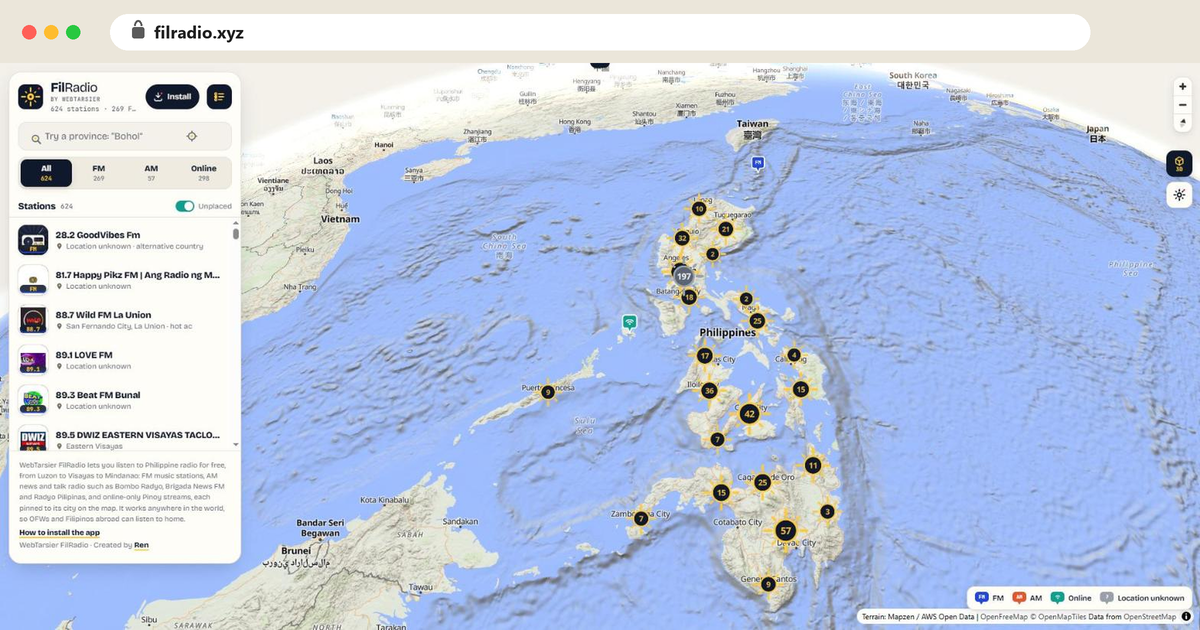
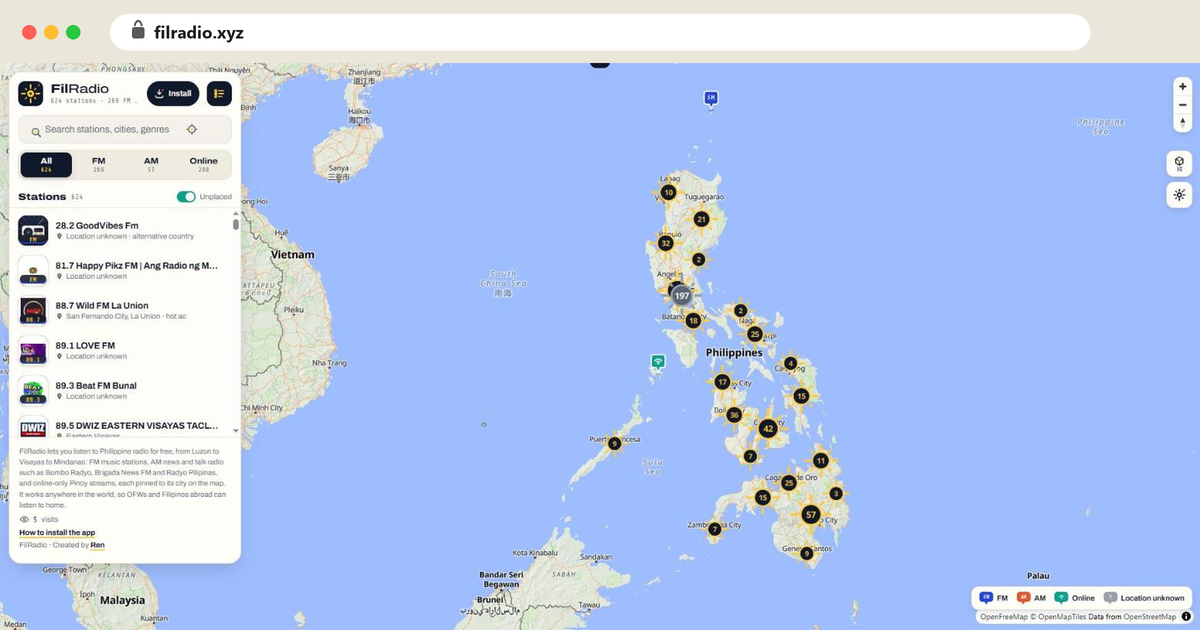
Switch to Archivo + Share Tech Mono and drop WebTarsier branding
- Fonts: Archivo (expanded for headings, like a vintage radio badge)
  and Share Tech Mono for frequency/LCD readouts; canvas pins updated
- Removed "WebTarsier" from title, meta, Open Graph, JSON-LD, header,
  footer, manifest, sitemap and README; publisher is now Ren
- Re-captured og-image and desktop screenshot with the new look

diff --git a/index.html b/index.html
@@ -5,9 +5,9 @@
   <meta name="viewport" content="width=device-width, initial-scale=1, viewport-fit=cover" />
 
   <!-- SEO -->
-  <title>WebTarsier FilRadio — Listen to Philippine FM &amp; AM Radio Live, Anywhere</title>
-  <meta name="description" content="WebTarsier FilRadio: stream 600+ Philippine radio stations free, live on a 3D map. FM, AM and online stations from Manila, Cebu, Davao, Iloilo and more. Made for Filipinos at home and OFWs abroad." />
-  <meta name="keywords" content="WebTarsier FilRadio, FilRadio, Philippine radio, Pinoy radio online, OFW radio, Filipino radio abroad, FM radio Philippines, AM radio Philippines, live radio streaming, Manila radio, Cebu radio, Davao radio, Bombo Radyo, Brigada News FM, radio map" />
+  <title>FilRadio — Listen to Philippine FM &amp; AM Radio Live, Anywhere</title>
+  <meta name="description" content="FilRadio: stream 600+ Philippine radio stations free, live on a 3D map. FM, AM and online stations from Manila, Cebu, Davao, Iloilo and more. Made for Filipinos at home and OFWs abroad." />
+  <meta name="keywords" content="FilRadio, Philippine radio, Pinoy radio online, OFW radio, Filipino radio abroad, FM radio Philippines, AM radio Philippines, live radio streaming, Manila radio, Cebu radio, Davao radio, Bombo Radyo, Brigada News FM, radio map" />
   <meta name="author" content="Ren" />
   <meta http-equiv="Content-Security-Policy" content="default-src 'self'; script-src 'self' https://unpkg.com https://cdn.jsdelivr.net; worker-src 'self' blob:; child-src blob:; style-src 'self' 'unsafe-inline' https://fonts.googleapis.com https://unpkg.com; font-src https://fonts.gstatic.com; img-src * data: blob:; media-src * blob:; connect-src 'self' https: http:; object-src 'none'; base-uri 'self'; form-action 'none'" />
   <meta name="referrer" content="strict-origin-when-cross-origin" />
@@ -16,29 +16,28 @@
 
   <!-- Open Graph / Social -->
   <meta property="og:type" content="website" />
-  <meta property="og:site_name" content="WebTarsier FilRadio" />
-  <meta property="og:title" content="WebTarsier FilRadio — Philippine Radio, Live Anywhere" />
+  <meta property="og:site_name" content="FilRadio" />
+  <meta property="og:title" content="FilRadio — Philippine Radio, Live Anywhere" />
   <meta property="og:description" content="Tap a pin anywhere in the Philippines and listen live, at home or abroad. 600+ FM, AM and online stations." />
   <meta property="og:url" content="https://filradio.xyz/" />
   <meta property="og:image" content="https://filradio.xyz/og-image.png" />
   <meta property="og:image:width" content="1200" />
   <meta property="og:image:height" content="630" />
-  <meta property="og:image:alt" content="WebTarsier FilRadio app showing Philippine radio stations on a 3D map" />
+  <meta property="og:image:alt" content="FilRadio app showing Philippine radio stations on a 3D map" />
   <meta property="og:locale" content="en_PH" />
   <meta name="twitter:card" content="summary_large_image" />
-  <meta name="twitter:title" content="WebTarsier FilRadio — Philippine Radio, Live Anywhere" />
+  <meta name="twitter:title" content="FilRadio — Philippine Radio, Live Anywhere" />
   <meta name="twitter:description" content="Tap a pin anywhere in the Philippines and listen live, at home or abroad. 600+ FM, AM and online stations." />
   <meta name="twitter:image" content="https://filradio.xyz/og-image.png" />
-  <meta name="twitter:image:alt" content="WebTarsier FilRadio app showing Philippine radio stations on a 3D map" />
+  <meta name="twitter:image:alt" content="FilRadio app showing Philippine radio stations on a 3D map" />
   <meta property="og:image:type" content="image/png" />
-  <meta name="application-name" content="WebTarsier FilRadio" />
+  <meta name="application-name" content="FilRadio" />
 
   <script type="application/ld+json">
   {
     "@context": "https://schema.org",
     "@type": "WebApplication",
-    "name": "WebTarsier FilRadio",
-    "alternateName": "FilRadio",
+    "name": "FilRadio",
     "url": "https://filradio.xyz/",
     "description": "Interactive 3D map of Philippine FM, AM and online radio stations with live streaming.",
     "applicationCategory": "MultimediaApplication",
@@ -49,7 +48,7 @@
     "creator": { "@type": "Person", "name": "Ren", "url": "https://www.renienamocot.com/" },
     "spatialCoverage": { "@type": "Country", "name": "Philippines" },
     "audience": { "@type": "Audience", "audienceType": "Filipinos in the Philippines and OFWs abroad" },
-    "publisher": { "@type": "Organization", "name": "WebTarsier", "url": "https://webtarsier.com/", "logo": "https://filradio.xyz/icons/icon-512.png" },
+    "publisher": { "@type": "Person", "name": "Ren", "url": "https://www.renienamocot.com/" },
     "screenshot": "https://filradio.xyz/og-image.png"
   }
   </script>
@@ -71,7 +70,7 @@
   <link rel="preconnect" href="https://de1.api.radio-browser.info" crossorigin />
   <link rel="preconnect" href="https://unpkg.com" crossorigin />
   <link rel="dns-prefetch" href="https://s3.amazonaws.com" />
-  <link href="https://fonts.googleapis.com/css2?family=Bricolage+Grotesque:opsz,wght@12..96,400;12..96,600;12..96,800&family=JetBrains+Mono:wght@500;700&display=swap" rel="stylesheet" />
+  <link href="https://fonts.googleapis.com/css2?family=Archivo:wdth,wght@100..125,400..800&family=Share+Tech+Mono&display=swap" rel="stylesheet" />
   <link rel="stylesheet" href="https://unpkg.com/maplibre-gl@5.6.0/dist/maplibre-gl.css" />
   <link rel="stylesheet" href="css/style.css" />
 </head>
@@ -130,7 +129,7 @@
         <header class="brand">
           <img class="logo" src="icon.svg" alt="FilRadio logo" width="40" height="40" />
           <div class="brand-text">
-            <h1>Fil<span>Radio</span> <small class="by">by WebTarsier</small></h1>
+            <h1>Fil<span>Radio</span></h1>
             <p class="sub" id="summary">Tuning in…</p>
           </div>
           <button class="ibtn install" id="installBtn" hidden title="Install FilRadio">
@@ -188,14 +187,14 @@
         </ul>
         <footer class="credit">
           <p class="about">
-            WebTarsier FilRadio lets you listen to Philippine radio for free, from Luzon to Visayas to Mindanao:
+            FilRadio lets you listen to Philippine radio for free, from Luzon to Visayas to Mindanao:
             FM music stations, AM news and talk radio such as Bombo Radyo, Brigada News FM and Radyo Pilipinas,
             and online-only Pinoy streams, each pinned to its city on the map. It works anywhere in the world,
             so OFWs and Filipinos abroad can listen to home.
           </p>
           <p class="visits" id="visits" hidden><svg class="i" aria-hidden="true"><use href="#i-eye"/></svg><b>0</b> visits</p>
           <p><a href="#install" id="howInstall">How to install the app</a></p>
-          <p>WebTarsier FilRadio · Created by <a href="https://www.renienamocot.com/" target="_blank" rel="noopener">Ren</a></p>
+          <p>FilRadio · Created by <a href="https://www.renienamocot.com/" target="_blank" rel="noopener">Ren</a></p>
         </footer>
       </section>
     </aside>

diff --git a/css/style.css b/css/style.css
@@ -20,8 +20,8 @@
   --lcd-text: #ffc93c;
   --shadow: 0 1px 0 rgba(16, 24, 43, .04), 0 12px 32px -8px rgba(16, 24, 43, .22);
   --shadow-sm: 0 1px 0 rgba(16, 24, 43, .04), 0 4px 14px -4px rgba(16, 24, 43, .22);
-  --display: "Bricolage Grotesque", ui-sans-serif, system-ui, sans-serif;
-  --mono: "JetBrains Mono", ui-monospace, monospace;
+  --display: "Archivo", ui-sans-serif, system-ui, sans-serif;
+  --mono: "Share Tech Mono", ui-monospace, monospace;
   --safe-top: env(safe-area-inset-top, 0px);
   --safe-bottom: env(safe-area-inset-bottom, 0px);
   --tab-h: calc(64px + var(--safe-bottom));
@@ -40,7 +40,7 @@
 * { box-sizing: border-box; -webkit-tap-highlight-color: transparent; }
 html, body { height: 100%; margin: 0; overflow: hidden; }
 body {
-  font-family: var(--display); font-optical-sizing: auto; background: var(--paper); color: var(--text);
+  font-family: var(--display); font-synthesis: style; background: var(--paper); color: var(--text);
   font-size: 14px; overscroll-behavior: none; -webkit-font-smoothing: antialiased;
 }
 a { color: inherit; }
@@ -610,3 +610,20 @@ dialog.guide[open] .guide-card { animation: guide-in .45s var(--ease); }
 /* 3D button tip on first visit */
 .fab.hint { animation: fab-hint 1.2s var(--ease) infinite; }
 @keyframes fab-hint { 0%, 100% { box-shadow: var(--shadow-sm), 0 0 0 0 rgba(255,201,60,.8); } 60% { box-shadow: var(--shadow-sm), 0 0 0 12px rgba(255,201,60,0); } }
+
+/* ---------- Type: Archivo (expanded for headings) + Share Tech Mono (tuner LCD) ---------- */
+.brand h1, .sheet-title h2, .now h2, .guide-head h2, .guide-text h3, .popup h3, .area-banner .name, .p-name {
+  font-stretch: 125%; letter-spacing: -.01em;
+}
+.brand h1 { font-size: 20px; font-weight: 800; }
+.brand h1 span { font-weight: 500; }
+.now h2 { font-size: 22px; line-height: 1.2; }
+.list .name { font-weight: 650; letter-spacing: -.005em; }
+.band { font-stretch: 112%; letter-spacing: 0; }
+.tab { font-stretch: 110%; letter-spacing: .01em; }
+/* LCD readouts read best a touch larger, uppercase, slightly tracked */
+.readout .tag { font-size: 10px; letter-spacing: .02em; }
+.sub, #listCount, .band span, .p-meta, .n-status, .onair, .art-tag, .list .meta .dist, .credit .visits b { letter-spacing: .04em; }
+.art-tag { font-size: 15px; }
+.n-status { font-size: 13px; }
+.dial-scale .t span { font-size: 11px; }

diff --git a/js/app.js b/js/app.js
@@ -235,7 +235,7 @@
 
   // Pin images drawn on canvas — one per band, plus "playing" and "unknown".
   async function makePins() {
-    try { await document.fonts.load('700 20px "JetBrains Mono"'); } catch {}
+    try { await document.fonts.load('20px "Share Tech Mono"'); } catch {}
     const defs = {
       "pin-FM": [BRAND.fm, "#fff", "FM"],
       "pin-AM": [BRAND.am, "#fff", "AM"],
@@ -268,7 +268,7 @@
       } else if (label === "play") {
         g.beginPath(); g.moveTo(13.5, 10); g.lineTo(23, 16); g.lineTo(13.5, 22); g.closePath(); g.fill();
       } else {
-        g.font = '700 11px "JetBrains Mono", ui-monospace, monospace';
+        g.font = '12.5px "Share Tech Mono", ui-monospace, monospace';
         g.textAlign = "center"; g.textBaseline = "middle";
         g.fillText(label, 17, 16.5);
       }

diff --git a/sw.js b/sw.js
@@ -1,6 +1,6 @@
 // FilRadio service worker: makes the app installable and loads the shell offline.
 // Audio streams, map tiles and the station API are never cached here.
-const VERSION = "filradio-v10";
+const VERSION = "filradio-v11";
 const SHELL = [
   "./",
   "./index.html",

diff --git a/README.md b/README.md
@@ -1,10 +1,10 @@
-# WebTarsier FilRadio
+# FilRadio
 
 Listen to Philippine FM, AM and online radio on a 3D map, at home or abroad. Tap a pin and it plays live.
 
 **Live:** https://filradio.xyz/
 
-![WebTarsier FilRadio](og-image.png)
+![FilRadio](og-image.png)
 
 ## Features
 
@@ -59,4 +59,4 @@ Upload the whole folder to the web root of `filradio.xyz`. HTTPS is required for
 | `icons/` | App icons and fallback radio artwork |
 | `screenshots/`, `og-image.png` | Install dialog screenshots and social preview |
 
-WebTarsier FilRadio · Created by [Ren](https://www.renienamocot.com/).
+FilRadio · Created by [Ren](https://www.renienamocot.com/).
